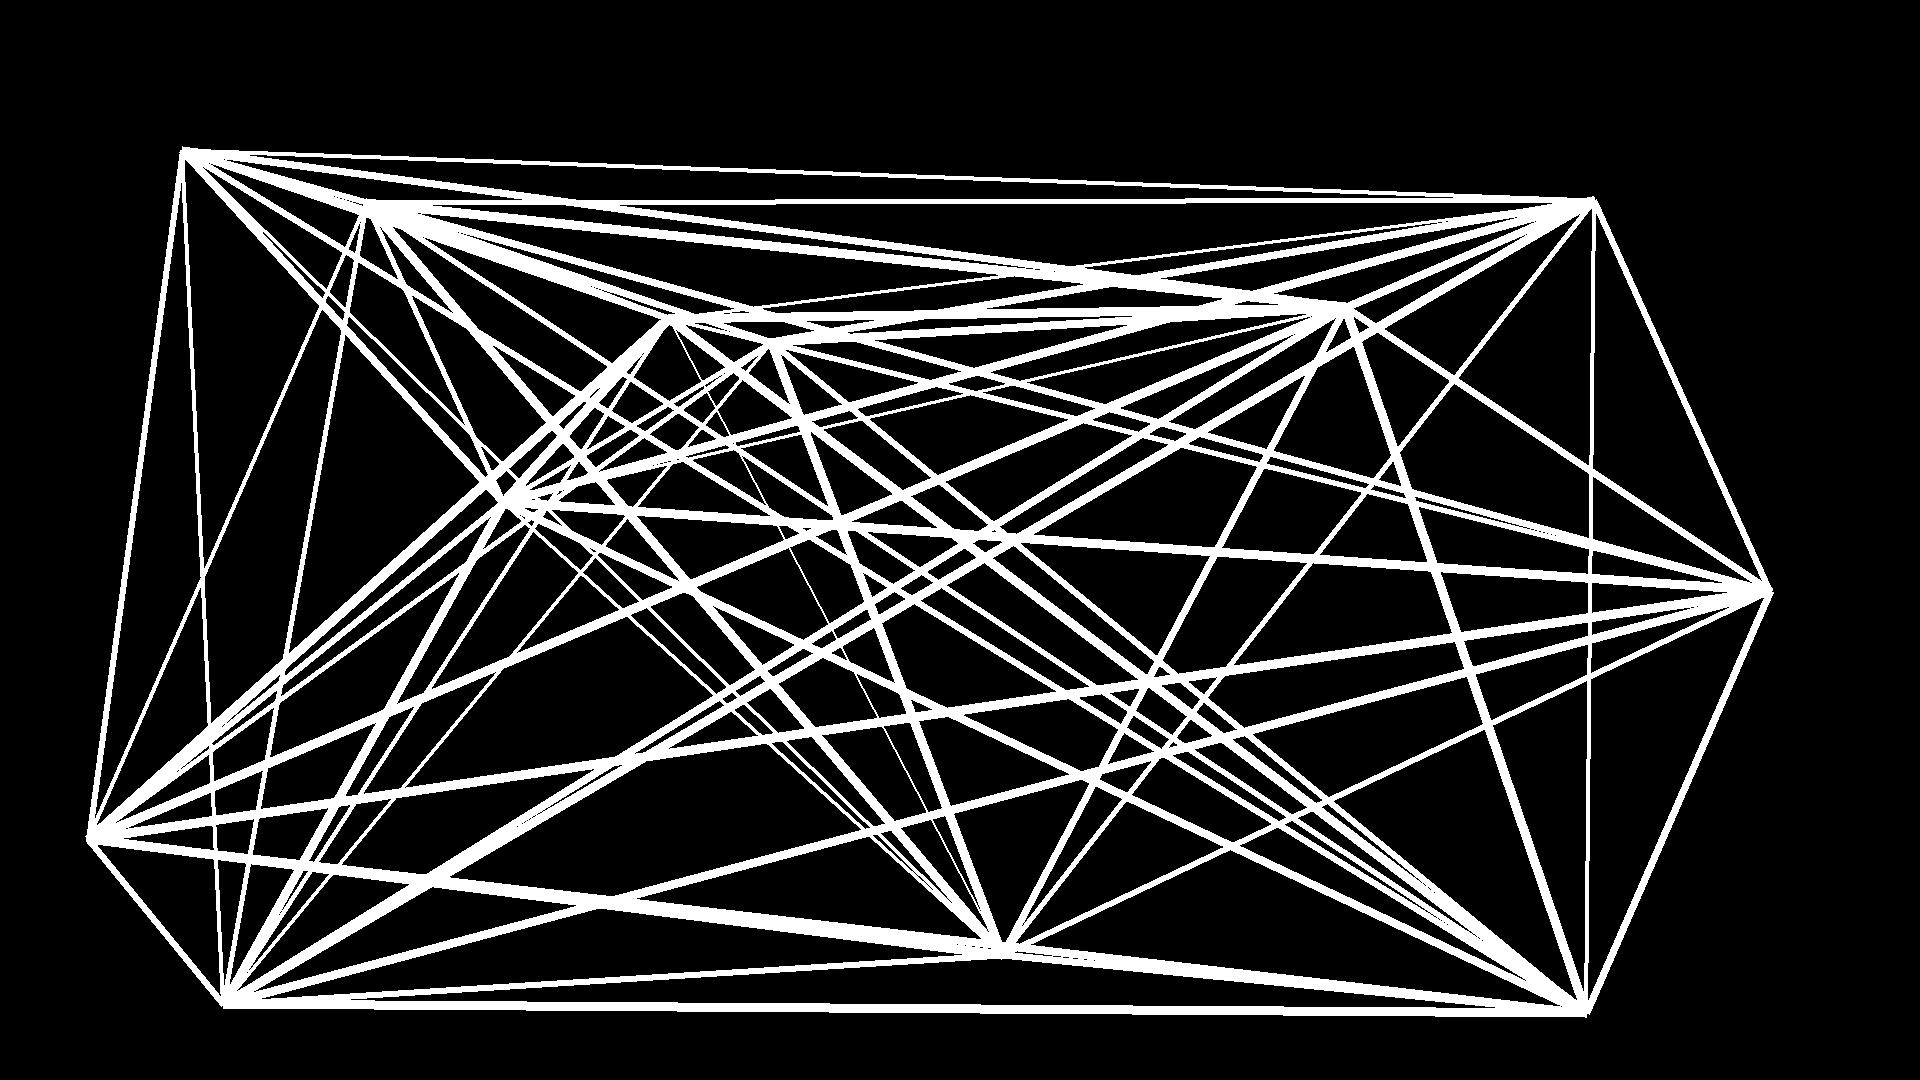
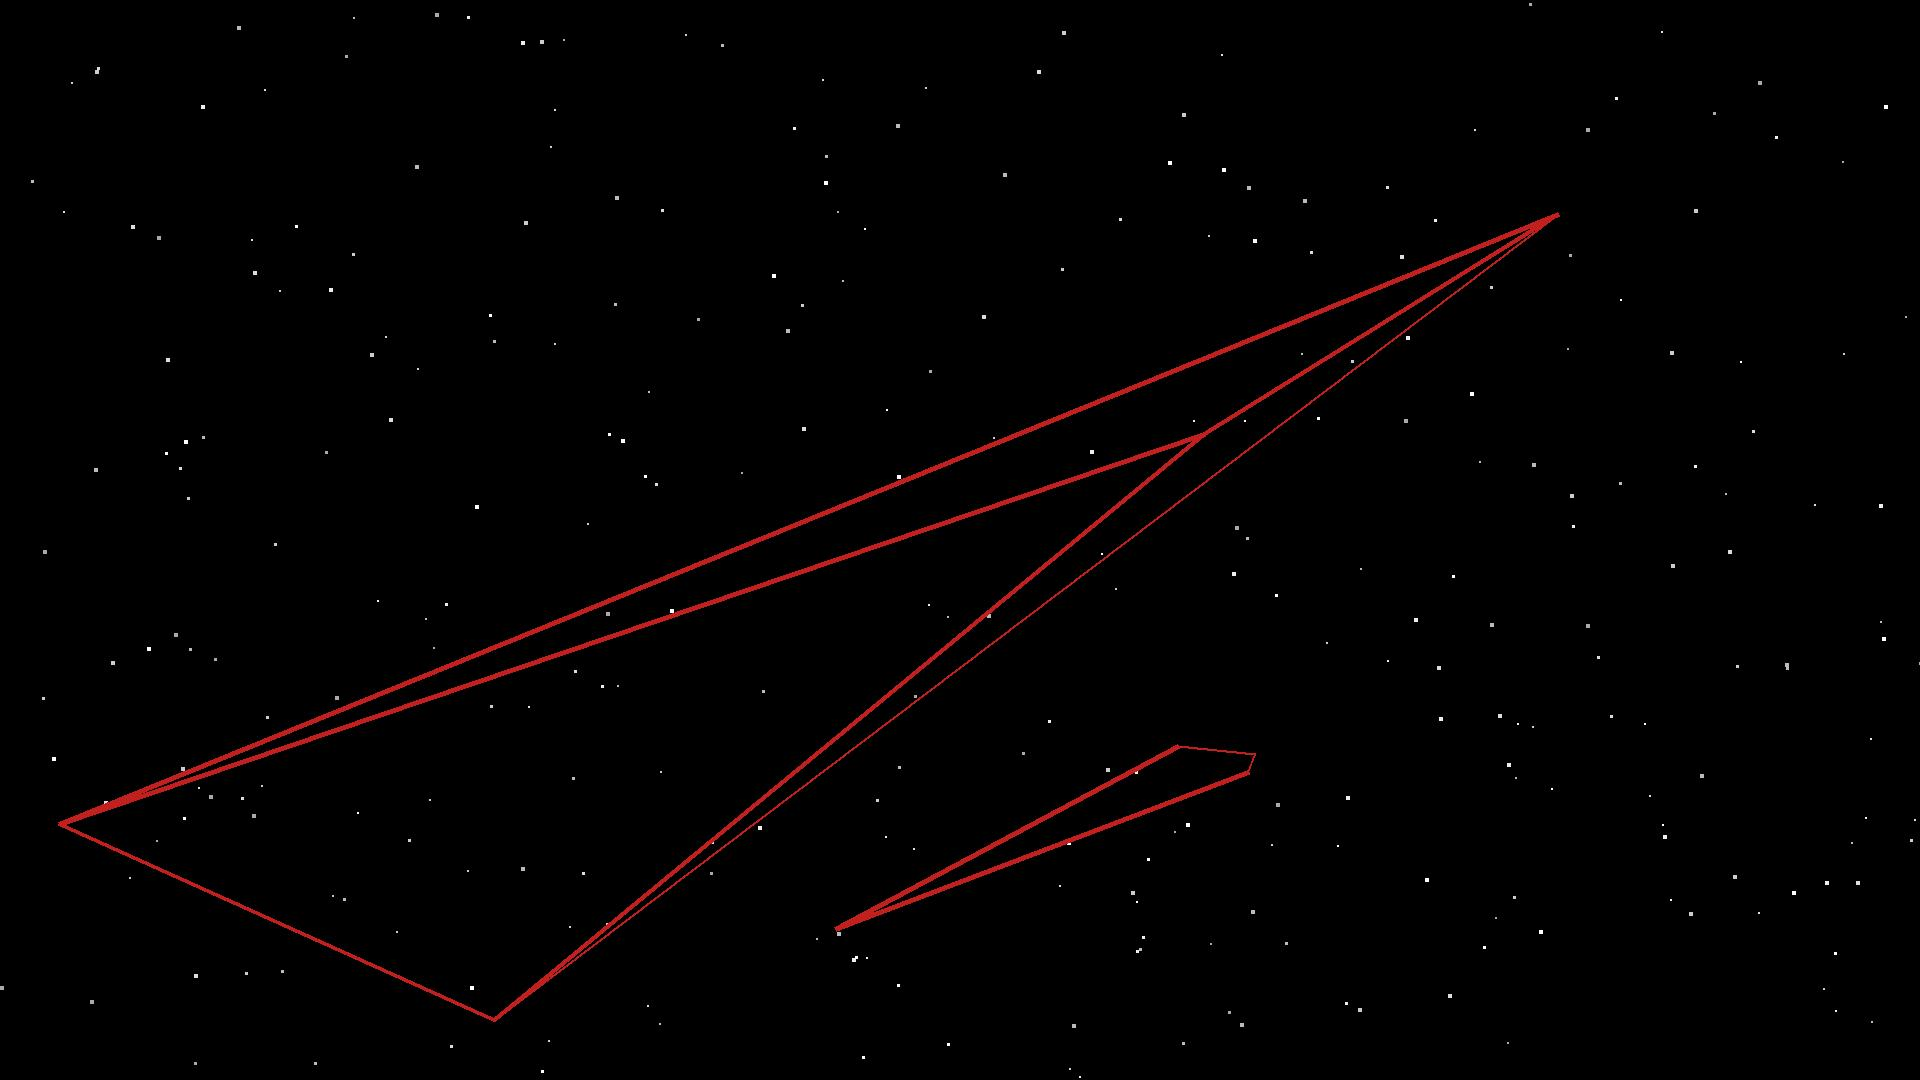
added padding changes and some image changes as well as making everything a function

diff --git a/second/run.py b/second/run.py
@@ -1,35 +1,47 @@
 from PIL import Image, ImageDraw
 import random, time
 
+#/ Function to setup a padding that can't be picked at for random choices
+def randomPadChoice(padding):
+    global size
+    #x
+    x = random.randint(0+padding, size[0]-padding)
+    y = random.randint(0+padding, size[1]-padding)
+    return [x, y]
+
 size = [1920, 1080]
 im = Image.open("op.jpg")
 draw = ImageDraw.Draw(im)
 
-nodeAmount = 12
-nodeStorage = []
+def background():
+    backgroundDensity = 300
+    #/ Creating a background
+    for i in range(0, backgroundDensity):
+        rx1 = random.randint(0, size[0])
+        ry1 = random.randint(0, size[1])
+        siz = random.randint(1,3)
+        c   = random.choice(["a", "b", "c", "d", "e", "f"])
+        draw.rectangle([(rx1, ry1), (rx1+siz, ry1+siz)], "#{0}{1}{2}{3}{4}{5}".format(c, c, c, c, c, c))
 
-#/ First, generate the nodes coords.
-for i in range(0, nodeAmount):
-    nodeStorage.append([random.randint(0, size[0]), random.randint(0, size[1])])
+def nodeConnect():
+    nodeAmount = 4
+    nodeStorage = []
 
-#/ Draw: .line(xy, fill=None, width=0, joint=None)
-for i in range(0, nodeAmount):
-    print(nodeStorage)
-    for b in range(0, nodeAmount):
-        if b != i: #Parent does not equal the second check, connect B to I
-            firstNode = nodeStorage[i]
-            secndNode = nodeStorage[b]
-            draw.line([(firstNode[0], firstNode[1]), (secndNode[0], secndNode[1])], "#ffffff", random.randint(0,10))
+    #/ Generate the nodes coords on the screen.
+    for i in range(0, nodeAmount):
+        nodeStorage.append(randomPadChoice(0))
 
+    #/ Draw: .line(xy, fill=None, width=0, joint=None)
+    for i in range(0, nodeAmount):
+        print(nodeStorage)
+        for b in range(0, nodeAmount):
+            if b != i and random.randint(0,10) > 5: #Parent does not equal the second check, connect B to I
+                firstNode = nodeStorage[i]
+                secndNode = nodeStorage[b]
+                draw.line([(firstNode[0], firstNode[1]), (secndNode[0], secndNode[1])], "#c21f1f", random.randint(1,5))
+
+background()
+nodeConnect()
+nodeConnect()
 
 im.save("op-af.jpg")
-
-# while True:
-#     rx1 = random.randint(0, size[0])
-#     ry1 = random.randint(0, size[1])
-#     rx2 = rx1+boxsize
-#     ry2 = ry1+boxsize
-#     draw.rectangle([(rx1, ry1), (rx2, ry2)], '#000000')
-#     time.sleep(0.5)
-#     im.save("this.jpg")
-# im.rotate(45).show()
